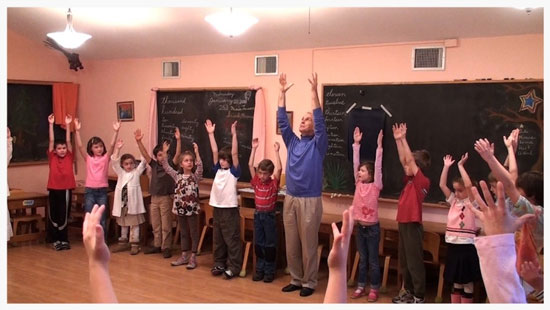
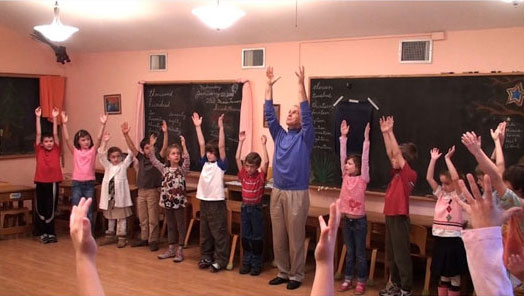
img corrections

diff --git a/css/main.min.css b/css/main.min.css
@@ -1,1 +1,1 @@
-@import url("https://fonts.googleapis.com/css?family=Lato:400,400i|Merriweather|Delius");*{margin:0;padding:0;-webkit-box-sizing:border-box;box-sizing:border-box}body{font-family:"Lato",sans-serif;color:#555;position:relative}body::before{content:"MUESTRA";position:fixed;height:100vh;top:0;left:0;right:0;bottom:0;background-color:rgba(255,0,0,0.5);color:#ffffff;font-size:10rem;font-weight:bold;text-align:center;padding-top:40vh;z-index:50}.container{max-width:1088px;margin:0 auto}a{text-decoration:none;color:inherit}.center{text-align:center}h1{font-family:"Merriweather",serif;margin:2rem 0.5rem;font-size:2.5rem}@media (max-width: 768px){h1{font-size:1rem}}h2{color:#121ec3;font-family:"Merriweather",serif;font-size:2rem;margin:2rem 0;text-align:center}h2.with-blockquote{margin-top:6rem}@media (max-width: 768px){h2{font-size:1.5rem}}h3{color:#555;font-family:"Merriweather",serif;font-size:1.8rem;margin:1.5rem 0}@media (max-width: 768px){h3{font-size:1.5rem}}blockquote{font-family:"Merriweather",serif;font-size:1.2rem;font-style:italic;line-height:2rem;margin:3rem auto;width:50%;position:relative}@media (max-width: 768px){blockquote{width:80%}}blockquote:before{content:"“";color:red;font-size:4rem;position:absolute;top:0.5rem;left:-3rem;z-index:-1}blockquote:after{content:"\A - Alejandro Dambrosi";white-space:pre;font-size:0.8rem;font-weight:bold;position:absolute;bottom:-2rem;right:0}video{max-width:100%}nav#desktop{background-color:#ffffff;height:110px;position:-webkit-sticky;position:sticky;top:0;-webkit-box-shadow:0px 0px 4px 0px rgba(0,0,0,0.5);box-shadow:0px 0px 4px 0px rgba(0,0,0,0.5);z-index:99}nav#desktop div{height:110px;display:-webkit-box;display:-ms-flexbox;display:flex;-webkit-box-pack:justify;-ms-flex-pack:justify;justify-content:space-between;-webkit-box-align:center;-ms-flex-align:center;align-items:center}nav#desktop .logo{width:90px;height:90px}@media (max-width: 1100px){nav#desktop .logo{margin:0 auto}}nav#desktop .logo img{width:100%}nav#desktop .navbar{display:-webkit-box;display:-ms-flexbox;display:flex;-webkit-box-align:center;-ms-flex-align:center;align-items:center;z-index:inherit}nav#desktop .navbar .navbar-link{list-style:none;font-size:0.7rem;text-transform:uppercase;margin-left:1.2rem;position:relative}nav#desktop .navbar .navbar-link.current-page{position:relative}nav#desktop .navbar .navbar-link.current-page:after{content:"";background-color:red;height:3px;width:100%;display:block;position:absolute;top:2rem;left:0;visibility:visible;-webkit-transform:scaleX(1);transform:scaleX(1)}nav#desktop .navbar .navbar-link:after{content:"";background-color:#555;height:3px;width:50%;display:block;position:absolute;top:2rem;left:25%;visibility:hidden;-webkit-transform:scaleX(0);transform:scaleX(0);-webkit-transition:all 0.3s ease-in-out 0s;transition:all 0.3s ease-in-out 0s}nav#desktop .navbar .navbar-link:hover:after{visibility:visible;-webkit-transform:scaleX(1);transform:scaleX(1)}nav#desktop .navbar .navbar-link i{margin-left:0.3rem}nav#desktop .navbar .navbar-link a{text-decoration:none;color:#555}nav#desktop .navbar .navbar-link .dropdown-menu{background-color:#cccccc;display:none;position:fixed;top:110px;left:0;width:100%;text-align:center;z-index:99}nav#desktop .navbar .navbar-link .dropdown-menu.active{display:block}nav#desktop .navbar .navbar-link .dropdown-menu li{display:inline-block}nav#desktop .navbar .navbar-link .dropdown-menu li a{display:block;padding:1rem;line-height:1.5rem;-webkit-transition:all 0.3s ease;transition:all 0.3s ease}nav#desktop .navbar .navbar-link .dropdown-menu li a:hover{background-color:#bbbbbb}nav#desktop .navbar .navbar-link .dropdown-toggle{position:relative}nav#desktop .navbar .navbar-link .dropdown-toggle.active::after{content:"";position:absolute;top:55px;left:calc(50% - 16px);z-index:1;display:block;width:16px;height:16px;-webkit-transform:rotate(45deg);transform:rotate(45deg);background-color:#cccccc}@media (max-width: 1100px){nav#desktop .navbar{display:none}}nav#mobile{visibility:hidden}@media (max-width: 1100px){nav#mobile{visibility:visible}}nav#mobile .toggler{width:50px;height:50px;position:fixed;top:30px;left:16px;opacity:0;z-index:10;cursor:pointer}nav#mobile .toggler-icon{border-radius:50%;line-height:50px;text-align:center;width:50px;height:50px;position:fixed;top:30px;left:16px;z-index:9;background-color:#cccccc}nav#mobile .navbar-mobile{visibility:hidden;width:40vw;height:100%;position:fixed;top:110px;left:0;z-index:8;background-color:#ffffff;list-style:none}@media (max-width: 767px){nav#mobile .navbar-mobile{width:100vw}}nav#mobile .navbar-mobile .navbar-link-1,nav#mobile .navbar-mobile .navbar-link-2{font-size:1rem;text-transform:uppercase;margin:0 16px 16px 16px}nav#mobile .navbar-mobile .navbar-link-1 a,nav#mobile .navbar-mobile .navbar-link-2 a{border-bottom:dotted red 1px}nav#mobile .navbar-mobile .navbar-link-2{margin-left:30px;font-size:0.8rem}nav#mobile .toggler:checked ~ .navbar-mobile{visibility:visible}header{color:#ffffff}header.welcome{background-image:url(../../img/header-bg.jpg);background-size:cover;background-position:center;background-repeat:no-repeat;height:calc( 100vh - 110px)}@media (max-width: 768px){header.welcome{height:50vh}}header.welcome .welcome-content{width:100%;height:100%;display:-webkit-box;display:-ms-flexbox;display:flex;-webkit-box-orient:vertical;-webkit-box-direction:normal;-ms-flex-direction:column;flex-direction:column;-webkit-box-align:center;-ms-flex-align:center;align-items:center;-webkit-box-pack:center;-ms-flex-pack:center;justify-content:center;padding-left:24rem}@media (max-width: 768px){header.welcome .welcome-content{padding-left:18rem}}@media (max-width: 425px){header.welcome .welcome-content{padding-left:7rem}}@media (max-width: 375px){header.welcome .welcome-content{padding-left:0}}header.welcome .welcome-content h1,header.welcome .welcome-content p{font-family:"Delius", cursive;font-weight:normal;text-align:center}header.welcome .welcome-content h1{font-size:3rem;margin:0 auto 1rem;padding:0}@media (max-width: 768px){header.welcome .welcome-content h1{font-size:1.5rem}}@media (max-width: 425px){header.welcome .welcome-content h1{font-size:1.2rem}}header.welcome .welcome-content h1 span:before,header.welcome .welcome-content h1 span:after{white-space:pre;content:"\A"}header.welcome .welcome-content p{margin:0;padding:0;line-height:1;font-size:1.5rem}@media (max-width: 768px){header.welcome .welcome-content p{font-size:1rem}}@media (max-width: 425px){header.welcome .welcome-content p{font-size:0.8rem}}header.pages{background-color:#555;text-align:center;padding:30px 0}header.pages h1{margin:0}main{padding:0 2rem}main p,main ul{line-height:2rem;margin:1.5em 0;text-align:justify}main ul{margin-left:2rem;list-style:square}main .img-container{display:-webkit-box;display:-ms-flexbox;display:flex;-webkit-box-pack:center;-ms-flex-pack:center;justify-content:center;-webkit-box-align:center;-ms-flex-align:center;align-items:center}main .img-container>img{max-width:400px}@media (max-width: 425px){main .img-container>img{max-width:300px}}main .img-container .circle-img{display:inline-block;width:300px;height:300px;border-radius:50%;margin:3em 2rem;-webkit-box-shadow:0px 0px 4px 0px rgba(0,0,0,0.5);box-shadow:0px 0px 4px 0px rgba(0,0,0,0.5);overflow:hidden;position:relative}main .img-container .circle-img img{width:auto;height:100%;margin-left:-75px}main .img-container .circle-img img.portrait{width:100%;height:auto;margin-left:0px}#aranceles .table{display:-webkit-box;display:-ms-flexbox;display:flex;-webkit-box-pack:justify;-ms-flex-pack:justify;justify-content:space-between}@media (max-width: 768px){#aranceles .table{-webkit-box-orient:vertical;-webkit-box-direction:normal;-ms-flex-direction:column;flex-direction:column}}#aranceles .table .table-item{width:100%;margin:2rem;padding:1rem;-webkit-box-shadow:0px 0px 3px 0px rgba(0,0,0,0.5);box-shadow:0px 0px 3px 0px rgba(0,0,0,0.5)}@media (max-width: 768px){#aranceles .table .table-item{width:auto}}#aranceles .table .table-item h4,#aranceles .table .table-item p{text-align:center;font-style:italic;margin:0;padding:0}#aranceles .table .table-item h4{font-family:"Merriweather",serif;font-size:1.5rem;font-style:normal;color:red;display:block}#aranceles .table .table-item .price{font-weight:bold;font-size:1.2rem;font-style:normal;margin-top:2rem}#aranceles .table .table-item .price:before{content:"USD";margin-right:0.5rem}#aranceles .table .table-item .price sup{font-size:0.6rem;margin-left:0.2rem}#contacto h3{font-size:1.2rem;margin:1rem 0}#contacto h3 i{margin-right:0.5rem}#contacto p{line-height:normal;margin:0}#contacto .content{display:-webkit-box;display:-ms-flexbox;display:flex;-webkit-box-orient:horizontal;-webkit-box-direction:normal;-ms-flex-direction:row;flex-direction:row;-webkit-box-pack:justify;-ms-flex-pack:justify;justify-content:space-between;-webkit-box-align:stretch;-ms-flex-align:stretch;align-items:stretch}@media (max-width: 768px){#contacto .content{-webkit-box-orient:vertical;-webkit-box-direction:normal;-ms-flex-direction:column;flex-direction:column}}#contacto .content .map{width:65%}@media (max-width: 768px){#contacto .content .map{width:100%}}#contacto .content .map address{font-style:normal}#contacto .content .map address iframe{margin-top:1rem}@media (max-width: 768px){#contacto .content .map address iframe{max-width:100%}}#contacto .content .links{width:35%;position:relative}@media (max-width: 768px){#contacto .content .links{width:100%}}#contacto .content .links:before{content:"";position:absolute;top:1rem;left:-2rem;border-left:1px dotted gray;height:100%}#formacion .grid-container{display:-ms-grid;display:grid;-ms-grid-columns:1fr auto 1fr;grid-template-columns:1fr auto 1fr;grid-column-gap:4rem;grid-row-gap:4rem}@media (max-width: 768px){#formacion .grid-container{-ms-grid-columns:auto;grid-template-columns:auto}}#formacion .grid-container .grid-item{-ms-flex-item-align:start;-ms-grid-row-align:start;align-self:start}#formacion .grid-container .grid-item.center{-ms-grid-column:2;grid-column:2}@media (max-width: 768px){#formacion .grid-container .grid-item.center{grid-column:auto}}@media (max-width: 768px){#formacion .grid-container .grid-item.left,#formacion .grid-container .grid-item.right{display:none}}#formacion .grid-container .grid-item h3{margin-top:0}#formacion .circle-img{display:inline-block;width:200px;height:200px;margin:0;border-radius:50%;-webkit-box-shadow:0px 0px 4px 0px rgba(0,0,0,0.5);box-shadow:0px 0px 4px 0px rgba(0,0,0,0.5);overflow:hidden;position:relative}#formacion .circle-img img{width:auto;height:100%;margin-left:-50px}#formacion .circle-img img.portrait{width:100%;height:auto;margin-left:0px}footer{margin-top:6rem;padding:2rem;background-color:#121ec3}footer .footer-content{color:#ffffff;font-size:1rem;text-align:center;display:-webkit-box;display:-ms-flexbox;display:flex;-webkit-box-orient:vertical;-webkit-box-direction:normal;-ms-flex-direction:column;flex-direction:column}footer .footer-content .footer-links,footer .footer-content .footer-author{padding:1rem 0}footer .footer-content .footer-links a{display:inline-block;width:40px;height:40px;margin:0 0.5rem;background-color:#ffffff;color:#121ec3;border-radius:50%;line-height:40px}footer .footer-content .footer-author{font-family:"Merriweather",serif;font-size:0.8rem}footer .footer-content .footer-author i{color:#c62828}@media only screen and (max-width: 768px){.img-container{-webkit-box-orient:vertical;-webkit-box-direction:normal;-ms-flex-direction:column;flex-direction:column}}
+@import url("https://fonts.googleapis.com/css?family=Lato:400,400i|Merriweather|Delius");*{margin:0;padding:0;-webkit-box-sizing:border-box;box-sizing:border-box}body{font-family:"Lato",sans-serif;color:#555;position:relative}.container{max-width:1088px;margin:0 auto}a{text-decoration:none;color:inherit}.center{text-align:center}h1{font-family:"Merriweather",serif;margin:2rem 0.5rem;font-size:2.5rem}@media (max-width: 768px){h1{font-size:1rem}}h2{color:#121ec3;font-family:"Merriweather",serif;font-size:2rem;margin:2rem 0;text-align:center}h2.with-blockquote{margin-top:6rem}@media (max-width: 768px){h2{font-size:1.5rem}}h3{color:#555;font-family:"Merriweather",serif;font-size:1.8rem;margin:1.5rem 0}@media (max-width: 768px){h3{font-size:1.5rem}}blockquote{font-family:"Merriweather",serif;font-size:1.2rem;font-style:italic;line-height:2rem;margin:3rem auto;width:50%;position:relative}@media (max-width: 768px){blockquote{width:80%}}blockquote:before{content:"“";color:red;font-size:4rem;position:absolute;top:0.5rem;left:-3rem;z-index:-1}blockquote:after{content:"\A - Alejandro Dambrosi";white-space:pre;font-size:0.8rem;font-weight:bold;position:absolute;bottom:-2rem;right:0}video{max-width:100%}nav#desktop{background-color:#ffffff;height:110px;position:-webkit-sticky;position:sticky;top:0;-webkit-box-shadow:0px 0px 4px 0px rgba(0,0,0,0.5);box-shadow:0px 0px 4px 0px rgba(0,0,0,0.5);z-index:99}nav#desktop div{height:110px;display:-webkit-box;display:-ms-flexbox;display:flex;-webkit-box-pack:justify;-ms-flex-pack:justify;justify-content:space-between;-webkit-box-align:center;-ms-flex-align:center;align-items:center}nav#desktop .logo{width:90px;height:90px}@media (max-width: 1100px){nav#desktop .logo{margin:0 auto}}nav#desktop .logo img{width:100%}nav#desktop .navbar{display:-webkit-box;display:-ms-flexbox;display:flex;-webkit-box-align:center;-ms-flex-align:center;align-items:center;z-index:inherit}nav#desktop .navbar .navbar-link{list-style:none;font-size:0.7rem;text-transform:uppercase;margin-left:1.2rem;position:relative}nav#desktop .navbar .navbar-link.current-page{position:relative}nav#desktop .navbar .navbar-link.current-page:after{content:"";background-color:red;height:3px;width:100%;display:block;position:absolute;top:2rem;left:0;visibility:visible;-webkit-transform:scaleX(1);transform:scaleX(1)}nav#desktop .navbar .navbar-link:after{content:"";background-color:#555;height:3px;width:50%;display:block;position:absolute;top:2rem;left:25%;visibility:hidden;-webkit-transform:scaleX(0);transform:scaleX(0);-webkit-transition:all 0.3s ease-in-out 0s;transition:all 0.3s ease-in-out 0s}nav#desktop .navbar .navbar-link:hover:after{visibility:visible;-webkit-transform:scaleX(1);transform:scaleX(1)}nav#desktop .navbar .navbar-link i{margin-left:0.3rem}nav#desktop .navbar .navbar-link a{text-decoration:none;color:#555}nav#desktop .navbar .navbar-link .dropdown-menu{background-color:#cccccc;display:none;position:fixed;top:110px;left:0;width:100%;text-align:center;z-index:99}nav#desktop .navbar .navbar-link .dropdown-menu.active{display:block}nav#desktop .navbar .navbar-link .dropdown-menu li{display:inline-block}nav#desktop .navbar .navbar-link .dropdown-menu li a{display:block;padding:1rem;line-height:1.5rem;-webkit-transition:all 0.3s ease;transition:all 0.3s ease}nav#desktop .navbar .navbar-link .dropdown-menu li a:hover{background-color:#bbbbbb}nav#desktop .navbar .navbar-link .dropdown-toggle{position:relative}nav#desktop .navbar .navbar-link .dropdown-toggle.active::after{content:"";position:absolute;top:55px;left:calc(50% - 16px);z-index:1;display:block;width:16px;height:16px;-webkit-transform:rotate(45deg);transform:rotate(45deg);background-color:#cccccc}@media (max-width: 1100px){nav#desktop .navbar{display:none}}nav#mobile{visibility:hidden}@media (max-width: 1100px){nav#mobile{visibility:visible}}nav#mobile .toggler{width:50px;height:50px;position:fixed;top:30px;left:16px;opacity:0;z-index:10;cursor:pointer}nav#mobile .toggler-icon{border-radius:50%;line-height:50px;text-align:center;width:50px;height:50px;position:fixed;top:30px;left:16px;z-index:9;background-color:#cccccc}nav#mobile .navbar-mobile{visibility:hidden;width:40vw;height:100%;position:fixed;top:110px;left:0;z-index:8;background-color:#ffffff;list-style:none}@media (max-width: 767px){nav#mobile .navbar-mobile{width:100vw}}nav#mobile .navbar-mobile .navbar-link-1,nav#mobile .navbar-mobile .navbar-link-2{font-size:1rem;text-transform:uppercase;margin:0 16px 16px 16px}nav#mobile .navbar-mobile .navbar-link-1 a,nav#mobile .navbar-mobile .navbar-link-2 a{border-bottom:dotted red 1px}nav#mobile .navbar-mobile .navbar-link-2{margin-left:30px;font-size:0.8rem}nav#mobile .toggler:checked ~ .navbar-mobile{visibility:visible}header{color:#ffffff}header.welcome{background-image:url(../../img/header-bg.jpg);background-size:cover;background-position:center;background-repeat:no-repeat;height:calc( 100vh - 110px)}@media (max-width: 768px){header.welcome{height:50vh}}header.welcome .welcome-content{width:100%;height:100%;display:-webkit-box;display:-ms-flexbox;display:flex;-webkit-box-orient:vertical;-webkit-box-direction:normal;-ms-flex-direction:column;flex-direction:column;-webkit-box-align:center;-ms-flex-align:center;align-items:center;-webkit-box-pack:center;-ms-flex-pack:center;justify-content:center;padding-left:24rem}@media (max-width: 768px){header.welcome .welcome-content{padding-left:18rem}}@media (max-width: 425px){header.welcome .welcome-content{padding-left:7rem}}@media (max-width: 375px){header.welcome .welcome-content{padding-left:0}}header.welcome .welcome-content h1,header.welcome .welcome-content p{font-family:"Delius", cursive;font-weight:normal;text-align:center}header.welcome .welcome-content h1{font-size:3rem;margin:0 auto 1rem;padding:0}@media (max-width: 768px){header.welcome .welcome-content h1{font-size:1.5rem}}@media (max-width: 425px){header.welcome .welcome-content h1{font-size:1.2rem}}header.welcome .welcome-content h1 span:before,header.welcome .welcome-content h1 span:after{white-space:pre;content:"\A"}header.welcome .welcome-content p{margin:0;padding:0;line-height:1;font-size:1.5rem}@media (max-width: 768px){header.welcome .welcome-content p{font-size:1rem}}@media (max-width: 425px){header.welcome .welcome-content p{font-size:0.8rem}}header.pages{background-color:#555;text-align:center;padding:30px 0}header.pages h1{margin:0}main{padding:0 2rem}main p,main ul{line-height:2rem;margin:1.5em 0;text-align:justify}main ul{margin-left:2rem;list-style:square}main .img-container{display:-webkit-box;display:-ms-flexbox;display:flex;-webkit-box-pack:center;-ms-flex-pack:center;justify-content:center;-webkit-box-align:center;-ms-flex-align:center;align-items:center}main .img-container>img{max-width:400px}@media (max-width: 425px){main .img-container>img{max-width:300px}}main .img-container .circle-img{display:inline-block;width:300px;height:300px;border-radius:50%;margin:3em 2rem;-webkit-box-shadow:0px 0px 4px 0px rgba(0,0,0,0.5);box-shadow:0px 0px 4px 0px rgba(0,0,0,0.5);overflow:hidden;position:relative}main .img-container .circle-img img{width:auto;height:100%;margin-left:-75px}main .img-container .circle-img img.portrait{width:100%;height:auto;margin-left:0px}#aranceles .table{display:-webkit-box;display:-ms-flexbox;display:flex;-webkit-box-pack:justify;-ms-flex-pack:justify;justify-content:space-between}@media (max-width: 768px){#aranceles .table{-webkit-box-orient:vertical;-webkit-box-direction:normal;-ms-flex-direction:column;flex-direction:column}}#aranceles .table .table-item{width:100%;margin:2rem;padding:1rem;-webkit-box-shadow:0px 0px 3px 0px rgba(0,0,0,0.5);box-shadow:0px 0px 3px 0px rgba(0,0,0,0.5)}@media (max-width: 768px){#aranceles .table .table-item{width:auto}}#aranceles .table .table-item h4,#aranceles .table .table-item p{text-align:center;font-style:italic;margin:0;padding:0}#aranceles .table .table-item h4{font-family:"Merriweather",serif;font-size:1.5rem;font-style:normal;color:red;display:block}#aranceles .table .table-item .price{font-weight:bold;font-size:1.2rem;font-style:normal;margin-top:2rem}#aranceles .table .table-item .price:before{content:"USD";margin-right:0.5rem}#aranceles .table .table-item .price sup{font-size:0.6rem;margin-left:0.2rem}#contacto h3{font-size:1.2rem;margin:1rem 0}#contacto h3 i{margin-right:0.5rem}#contacto p{line-height:normal;margin:0}#contacto .content{display:-webkit-box;display:-ms-flexbox;display:flex;-webkit-box-orient:horizontal;-webkit-box-direction:normal;-ms-flex-direction:row;flex-direction:row;-webkit-box-pack:justify;-ms-flex-pack:justify;justify-content:space-between;-webkit-box-align:stretch;-ms-flex-align:stretch;align-items:stretch}@media (max-width: 768px){#contacto .content{-webkit-box-orient:vertical;-webkit-box-direction:normal;-ms-flex-direction:column;flex-direction:column}}#contacto .content .map{width:65%}@media (max-width: 768px){#contacto .content .map{width:100%}}#contacto .content .map address{font-style:normal}#contacto .content .map address iframe{margin-top:1rem}@media (max-width: 768px){#contacto .content .map address iframe{max-width:100%}}#contacto .content .links{width:35%;position:relative}@media (max-width: 768px){#contacto .content .links{width:100%}}#contacto .content .links:before{content:"";position:absolute;top:1rem;left:-2rem;border-left:1px dotted gray;height:100%}#formacion .grid-container{display:-ms-grid;display:grid;-ms-grid-columns:1fr auto 1fr;grid-template-columns:1fr auto 1fr;grid-column-gap:4rem;grid-row-gap:4rem}@media (max-width: 768px){#formacion .grid-container{-ms-grid-columns:auto;grid-template-columns:auto}}#formacion .grid-container .grid-item{-ms-flex-item-align:start;-ms-grid-row-align:start;align-self:start}#formacion .grid-container .grid-item.center{-ms-grid-column:2;grid-column:2}@media (max-width: 768px){#formacion .grid-container .grid-item.center{grid-column:auto}}@media (max-width: 768px){#formacion .grid-container .grid-item.left,#formacion .grid-container .grid-item.right{display:none}}#formacion .grid-container .grid-item h3{margin-top:0}#formacion .small-circle-img{display:inline-block;width:200px;height:200px;margin:0;border-radius:50%;-webkit-box-shadow:0px 0px 4px 0px rgba(0,0,0,0.5);box-shadow:0px 0px 4px 0px rgba(0,0,0,0.5);overflow:hidden;position:relative}#formacion .small-circle-img img{width:auto;height:100%;margin-left:-50px}#formacion .small-circle-img img.portrait{width:100%;height:auto;margin-left:0px}footer{margin-top:6rem;padding:2rem;background-color:#121ec3}footer .footer-content{color:#ffffff;font-size:1rem;text-align:center;display:-webkit-box;display:-ms-flexbox;display:flex;-webkit-box-orient:vertical;-webkit-box-direction:normal;-ms-flex-direction:column;flex-direction:column}footer .footer-content .footer-links,footer .footer-content .footer-author{padding:1rem 0}footer .footer-content .footer-links a{display:inline-block;width:40px;height:40px;margin:0 0.5rem;background-color:#ffffff;color:#121ec3;border-radius:50%;line-height:40px}footer .footer-content .footer-author{font-family:"Merriweather",serif;font-size:0.8rem}footer .footer-content .footer-author i{color:#c62828}@media only screen and (max-width: 768px){.img-container{-webkit-box-orient:vertical;-webkit-box-direction:normal;-ms-flex-direction:column;flex-direction:column}}

diff --git a/pages/sobre-la-formacion/ambitos-de-aplicacion.html b/pages/sobre-la-formacion/ambitos-de-aplicacion.html
@@ -5,7 +5,7 @@
     <meta name="viewport" content="width=device-width, initial-scale=1.0" />
     <meta http-equiv="X-UA-Compatible" content="ie=edge" />
     <title>Spacial Dynamics® Latinoamérica</title>
-    <link rel="stylesheet" href="../../css/main.min..css" />
+    <link rel="stylesheet" href="../../css/main.min.css" />
     <link
       rel="stylesheet"
       href="https://use.fontawesome.com/releases/v5.8.1/css/all.css"
@@ -173,7 +173,7 @@
         <div class="grid-container">
           <div class="grid-item left">
             <div class="img-container">
-              <div class="circle-img">
+              <div class="small-circle-img">
                 <img
                   class="portrait"
                   src="../../img/amb01.jpg"
@@ -210,7 +210,7 @@
           </div>
           <div class="grid-item right">
             <div class="img-container">
-              <div class="circle-img">
+              <div class="small-circle-img">
                 <img
                   src="../../img/amb02.jpg"
                   alt="Movimiento y Educación Física"
@@ -221,7 +221,7 @@
 
           <div class="grid-item left">
             <div class="img-container">
-              <div class="circle-img">
+              <div class="small-circle-img">
                 <img src="../../img/amb03.jpg" alt="Escuelas Waldorf" />
               </div>
             </div>
@@ -308,7 +308,7 @@
           </div>
           <div class="grid-item right">
             <div class="img-container">
-              <div class="circle-img">
+              <div class="small-circle-img">
                 <img src="../../img/amb06.jpg" alt="Atletas de elite" />
               </div>
             </div>
@@ -316,7 +316,7 @@
 
           <div class="grid-item left">
             <div class="img-container">
-              <div class="circle-img">
+              <div class="small-circle-img">
                 <img src="../../img/amb07.jpg" alt="Lesiones deportivas" />
               </div>
             </div>
@@ -353,7 +353,7 @@
           </div>
           <div class="grid-item right">
             <div class="img-container">
-              <div class="circle-img">
+              <div class="small-circle-img">
                 <img src="../../img/amb08.jpg" alt="Coaching" />
               </div>
             </div>
@@ -388,7 +388,7 @@
 
           <div class="grid-item left">
             <div class="img-container">
-              <div class="circle-img">
+              <div class="small-circle-img">
                 <img src="../../img/amb11.jpg" alt="Los ancianos" />
               </div>
             </div>
@@ -420,7 +420,7 @@
           </div>
           <div class="grid-item right">
             <div class="img-container">
-              <div class="circle-img">
+              <div class="small-circle-img">
                 <img class="portrait" src="../../img/amb12.jpg" alt="Trabajo en equipo" />
               </div>
             </div>
@@ -516,7 +516,7 @@
           </div>
           <div class="grid-item right">
             <div class="img-container">
-              <div class="circle-img">
+              <div class="small-circle-img">
                 <img class="portrait" src="../../img/amb16.jpg" alt="Artes del circo" />
               </div>
             </div>
@@ -524,7 +524,7 @@
 
           <div class="grid-item left">
             <div class="img-container">
-              <div class="circle-img">
+              <div class="small-circle-img">
                 <img src="../../img/amb17.jpg" alt="Bienestar de las mujeres" />
               </div>
             </div>

diff --git a/css/main.css b/css/main.css
@@ -13,23 +13,6 @@ body {
   position: relative;
 }
 
-body::before {
-  content: "MUESTRA";
-  position: fixed;
-  height: 100vh;
-  top: 0;
-  left: 0;
-  right: 0;
-  bottom: 0;
-  background-color: rgba(255, 0, 0, 0.5);
-  color: #ffffff;
-  font-size: 10rem;
-  font-weight: bold;
-  text-align: center;
-  padding-top: 40vh;
-  z-index: 50;
-}
-
 .container {
   max-width: 1088px;
   margin: 0 auto;
@@ -729,7 +712,7 @@ main .img-container .circle-img img.portrait {
   margin-top: 0;
 }
 
-#formacion .circle-img {
+#formacion .small-circle-img {
   display: inline-block;
   width: 200px;
   height: 200px;
@@ -741,13 +724,13 @@ main .img-container .circle-img img.portrait {
   position: relative;
 }
 
-#formacion .circle-img img {
+#formacion .small-circle-img img {
   width: auto;
   height: 100%;
   margin-left: -50px;
 }
 
-#formacion .circle-img img.portrait {
+#formacion .small-circle-img img.portrait {
   width: 100%;
   height: auto;
   margin-left: 0px;

diff --git a/scss/main.scss b/scss/main.scss
@@ -21,22 +21,22 @@ body {
   color: $text-color;
   position: relative;
 
-  &::before {
-    content: "MUESTRA";
-    position: fixed;
-    height: 100vh;
-    top: 0;
-    left: 0;
-    right: 0;
-    bottom: 0;
-    background-color: rgba(red, 0.5);
-    color: #ffffff;
-    font-size: 10rem;
-    font-weight: bold;
-    text-align: center;
-    padding-top: 40vh;
-    z-index: 50;
-  }
+  // &::before {
+  //   content: "MUESTRA";
+  //   position: fixed;
+  //   height: 100vh;
+  //   top: 0;
+  //   left: 0;
+  //   right: 0;
+  //   bottom: 0;
+  //   background-color: rgba(red, 0.5);
+  //   color: #ffffff;
+  //   font-size: 10rem;
+  //   font-weight: bold;
+  //   text-align: center;
+  //   padding-top: 40vh;
+  //   z-index: 50;
+  // }
 }
 
 .container {
@@ -439,7 +439,7 @@ main {
       }
     }
   }
-  .circle-img {
+  .small-circle-img {
     display: inline-block;
     width: 200px;
     height: 200px;

diff --git a/pages/niveles-de-formacion/core-studies.html b/pages/niveles-de-formacion/core-studies.html
@@ -5,7 +5,7 @@
     <meta name="viewport" content="width=device-width, initial-scale=1.0" />
     <meta http-equiv="X-UA-Compatible" content="ie=edge" />
     <title>Spacial Dynamics® Latinoamérica</title>
-    <link rel="stylesheet" href="../../css/main.min..css" />
+    <link rel="stylesheet" href="../../css/main.min.css" />
     <link
       rel="stylesheet"
       href="https://use.fontawesome.com/releases/v5.8.1/css/all.css"

diff --git a/pages/niveles-de-formacion/nivel-1.html b/pages/niveles-de-formacion/nivel-1.html
@@ -5,7 +5,7 @@
     <meta name="viewport" content="width=device-width, initial-scale=1.0" />
     <meta http-equiv="X-UA-Compatible" content="ie=edge" />
     <title>Spacial Dynamics® Latinoamérica</title>
-    <link rel="stylesheet" href="../../css/main.min..css" />
+    <link rel="stylesheet" href="../../css/main.min.css" />
     <link
       rel="stylesheet"
       href="https://use.fontawesome.com/releases/v5.8.1/css/all.css"

diff --git a/pages/sobre-la-formacion/metodos-pedagogicos.html b/pages/sobre-la-formacion/metodos-pedagogicos.html
@@ -5,7 +5,7 @@
     <meta name="viewport" content="width=device-width, initial-scale=1.0" />
     <meta http-equiv="X-UA-Compatible" content="ie=edge" />
     <title>Spacial Dynamics® Latinoamérica</title>
-    <link rel="stylesheet" href="../../css/main.min..css" />
+    <link rel="stylesheet" href="../../css/main.min.css" />
     <link
       rel="stylesheet"
       href="https://use.fontawesome.com/releases/v5.8.1/css/all.css"

diff --git a/pages/sobre-la-formacion/objetivos-del-programa.html b/pages/sobre-la-formacion/objetivos-del-programa.html
@@ -5,7 +5,7 @@
     <meta name="viewport" content="width=device-width, initial-scale=1.0" />
     <meta http-equiv="X-UA-Compatible" content="ie=edge" />
     <title>Spacial Dynamics® Latinoamérica</title>
-    <link rel="stylesheet" href="../../css/main.min..css" />
+    <link rel="stylesheet" href="../../css/main.min.css" />
     <link
       rel="stylesheet"
       href="https://use.fontawesome.com/releases/v5.8.1/css/all.css"

diff --git a/pages/sobre-nosotros/alejandro-dambrosi.html b/pages/sobre-nosotros/alejandro-dambrosi.html
@@ -5,7 +5,7 @@
     <meta name="viewport" content="width=device-width, initial-scale=1.0" />
     <meta http-equiv="X-UA-Compatible" content="ie=edge" />
     <title>Spacial Dynamics® Latinoamérica</title>
-    <link rel="stylesheet" href="../../css/main.min..css" />
+    <link rel="stylesheet" href="../../css/main.min.css" />
     <link
       rel="stylesheet"
       href="https://use.fontawesome.com/releases/v5.8.1/css/all.css"

diff --git a/pages/sobre-nosotros/despertar-del-hemisferio-sur.html b/pages/sobre-nosotros/despertar-del-hemisferio-sur.html
@@ -5,7 +5,7 @@
     <meta name="viewport" content="width=device-width, initial-scale=1.0" />
     <meta http-equiv="X-UA-Compatible" content="ie=edge" />
     <title>Spacial Dynamics® Latinoamérica</title>
-    <link rel="stylesheet" href="../../css/main.min..css" />
+    <link rel="stylesheet" href="../../css/main.min.css" />
     <link
       rel="stylesheet"
       href="https://use.fontawesome.com/releases/v5.8.1/css/all.css"

diff --git a/pages/aranceles-y-pagos.html b/pages/aranceles-y-pagos.html
@@ -5,7 +5,7 @@
     <meta name="viewport" content="width=device-width, initial-scale=1.0" />
     <meta http-equiv="X-UA-Compatible" content="ie=edge" />
     <title>Spacial Dynamics® Latinoamérica</title>
-    <link rel="stylesheet" href="../css/main.min..css" />
+    <link rel="stylesheet" href="../css/main.min.css" />
     <link
       rel="stylesheet"
       href="https://use.fontawesome.com/releases/v5.8.1/css/all.css"

diff --git a/pages/centro-de-formacion.html b/pages/centro-de-formacion.html
@@ -5,7 +5,7 @@
     <meta name="viewport" content="width=device-width, initial-scale=1.0" />
     <meta http-equiv="X-UA-Compatible" content="ie=edge" />
     <title>Spacial Dynamics® Latinoamérica</title>
-    <link rel="stylesheet" href="../css/main.min..css" />
+    <link rel="stylesheet" href="../css/main.min.css" />
     <link
       rel="stylesheet"
       href="https://use.fontawesome.com/releases/v5.8.1/css/all.css"
